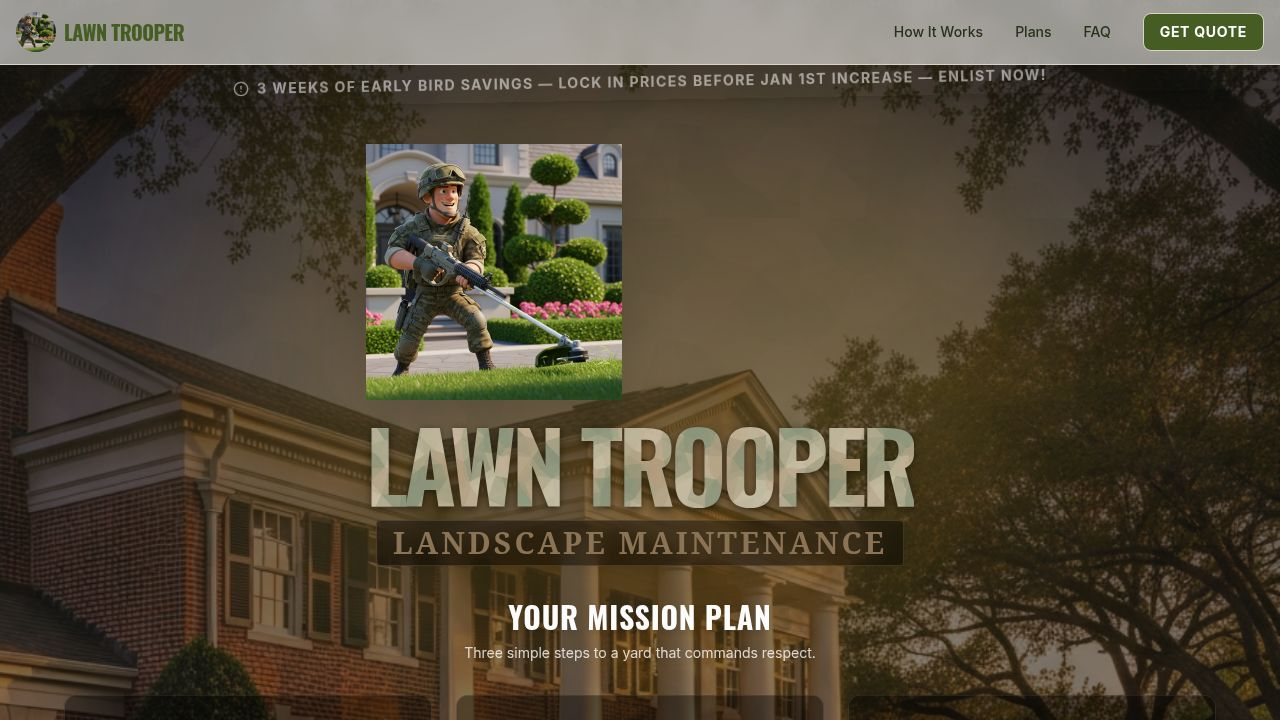
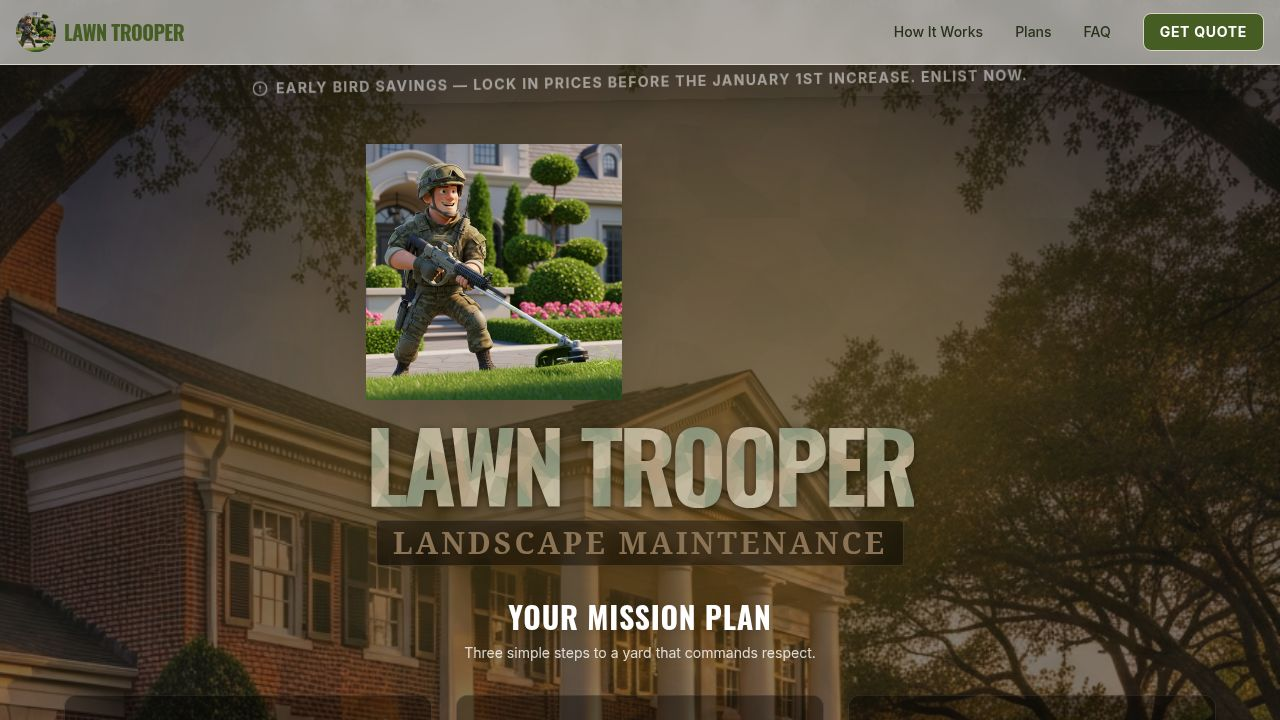
Update website text and add credibility section
Restructures add-ons into basic and premium, updates top banner text, and adds a new credibility section to client/src/pages/home.tsx.

Replit-Commit-Author: Agent
Replit-Commit-Session-Id: ef1a610a-a644-4159-90d2-10a9e9503470
Replit-Commit-Checkpoint-Type: full_checkpoint
Replit-Commit-Event-Id: 81d817a5-f874-46e5-a5a5-723bfba8b83c
Replit-Commit-Screenshot-Url: https://storage.googleapis.com/screenshot-production-us-central1/272d6f3a-6d6e-4d82-9048-783487746b88/ef1a610a-a644-4159-90d2-10a9e9503470/IQ7DViA
Replit-Helium-Checkpoint-Created: true

Changed region(s): [[0.1875, 0.0917, 0.8125, 0.1528]]

diff --git a/client/src/pages/home.tsx b/client/src/pages/home.tsx
@@ -105,27 +105,22 @@ const formSchema = z.object({
 });
 
 const basicAddOns = [
-  { id: "leaf_cleanup", label: "Leaf cleanup (basic)", img: imgLeaf },
-  { id: "shrub_trim", label: "Light shrub trim", img: null },
-  { id: "bed_tidy", label: "Simple bed tidy-up", img: null },
-  { id: "extra_mow", label: "One-time extra mow", img: null },
-  { id: "blow_off", label: "Simple sidewalk/driveway blow-off", img: null },
-  { id: "spring_flowers", label: "Spring Flowers (Labor Only)", img: null },
-  { id: "fall_flowers", label: "Fall Flowers (Labor Only)", img: null },
+  { id: "leaf_cleanup_1x", label: "One-time leaf job", img: imgLeaf },
+  { id: "bush_trim_1x", label: "One-time bush trimming", img: null },
+  { id: "seasonal_flowers_1x", label: "One-time seasonal flowers (Spring or Fall)", img: null },
+  { id: "trash_can_2x", label: "Trash can cleaning (2× per year)", img: null },
 ];
 
 const premiumAddOns = [
-  { id: "deep_cleanup", label: "Deep seasonal cleanup", img: imgLeaf },
-  { id: "mulch_refresh", label: "Mulch refresh (beds only)", img: imgMulch },
-  { id: "hedge_shaping", label: "Hedge shaping (front yard)", img: null },
-  { id: "heavy_leaf", label: "Heavy leaf removal", img: imgLeaf },
-  { id: "flower_bed", label: "Flower bed detail service", img: null },
-  { id: "driveway_wash", label: "Driveway Pressure Wash", img: imgWash },
-  { id: "gutter_clean", label: "Gutter Cleaning", img: null },
-  { id: "xmas_lights", label: "Christmas Light Package ($500 Value)", img: imgXmas },
-  { id: "mulch_1x", label: "Mulch Install (1x/Year)", img: imgMulch },
-  { id: "mulch_2x", label: "Mulch Install (2x/Year)", img: imgMulch },
-  { id: "seasonal_flowers", label: "Seasonal Flowers (2x/Year, 8 Flats Included)", img: null },
+  { id: "bush_trim_3x", label: "Bush trimming (3× per year)", img: null },
+  { id: "leaf_removal_biweekly", label: "Bi-weekly leaf removal", img: imgLeaf },
+  { id: "mulching", label: "Mulching", img: imgMulch },
+  { id: "seasonal_flowers_2x", label: "Seasonal flowers (2× per year)", img: null },
+  { id: "mulch_install_1x", label: "Mulch install (1× per year)", img: imgMulch },
+  { id: "pine_straw_1x", label: "Pine straw install (1× per year)", img: null },
+  { id: "gutter_cleaning", label: "Gutter cleaning", img: null },
+  { id: "driveway_wash", label: "Driveway pressure washing", img: imgWash },
+  { id: "trash_can_monthly", label: "Trash can cleaning (monthly)", img: null },
 ];
 
 // Pricing Constants
@@ -370,7 +365,7 @@ export default function LandingPage() {
         <div className="absolute top-16 left-0 right-0 z-20 bg-destructive/90 text-white py-2 px-4 shadow-lg text-center transform -rotate-1">
           <div className="flex items-center justify-center gap-2 font-bold uppercase tracking-widest text-xs md:text-sm animate-pulse">
             <AlertCircle className="w-4 h-4" />
-            3 Weeks of Early Bird Savings — Lock in prices before Jan 1st increase — Enlist Now!
+            Early Bird Savings — Lock in prices before the January 1st increase. Enlist now.
           </div>
         </div>
 
@@ -556,6 +551,21 @@ export default function LandingPage() {
       
 
       {/* Pricing Plans */}
+      
+      {/* Credibility Section */}
+      <section className="bg-background py-8 border-b border-border">
+        <div className="container mx-auto px-4 text-center">
+          <div className="inline-block bg-primary/5 border border-primary/10 rounded-lg px-8 py-4">
+            <h2 className="text-xl md:text-2xl font-heading font-bold text-primary mb-1">
+              Lawn Trooper — 25+ years serving North Alabama. 100+ beautification awards.
+            </h2>
+            <p className="text-muted-foreground text-sm font-medium uppercase tracking-widest">
+              Military-level reliability. Premium results.
+            </p>
+          </div>
+        </div>
+      </section>
+
       <section id="plans" className="py-24 bg-primary/5 relative">
         <div className="absolute inset-0 z-0 opacity-10" style={{ backgroundImage: `url(${camoPattern})`, backgroundSize: '400px' }}></div>
         
